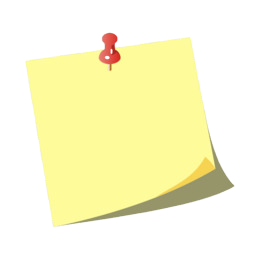
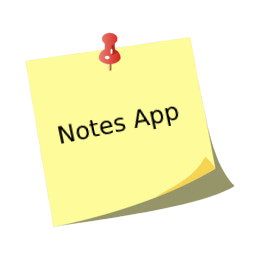
Css Finalizado

Changed region(s): [[0.2154, 0.4, 0.7077, 0.5538]]

diff --git a/src/assets/css/styles.css b/src/assets/css/styles.css
@@ -10,8 +10,8 @@ body {
   background-position: center;
   background-size: cover;
 }
-body.note{
-  background-color:#FEFB9A;
+body.note {
+  background-color: #fefb9a;
   background-image: none;
 }
 nav {
@@ -29,7 +29,7 @@ nav {
 }
 .menu {
   width: auto;
-  padding-top:calc(20% - 120px);
+  padding-top: calc(20% - 120px);
   position: fixed;
   transform: translateX(-200%);
   transition: transform 0.2s;
@@ -38,10 +38,10 @@ nav {
   z-index: 99;
   background-color: #d9d9d9;
 }
-nav ul li{
+nav ul li {
   list-style: none;
 }
-.closeIcon{
+.closeIcon {
   display: none;
 }
 .showMenu {
@@ -63,10 +63,10 @@ nav ul li{
 .material-icons {
   font-size: 40px !important;
 }
-.menuItem a{
+.menuItem a {
   text-decoration: none;
 }
-.menuItem{
+.menuItem {
   display: block;
   margin: 2rem 4rem;
   font-size: 1.8rem;
@@ -74,14 +74,15 @@ nav ul li{
 .menuItem:hover,
 .menuItem:focus {
   border: 1px solid black;
-  background-color: #FEFB9A;
+  background-color: #fefb9a;
   width: 100%;
   padding: 5%;
   text-decoration: none;
   box-shadow: 100px 40px 4px rgba(0, 0, 0, 0.25);
   color: white;
 }
-.menuItem a,.menuItem a:visited{
+.menuItem a,
+.menuItem a:visited {
   color: #000000;
 }
 
@@ -97,16 +98,6 @@ nav ul li{
   margin: auto;
   width: 50vmin;
   height: 50vmin;
-}
-.title {
-  margin: auto;
-  z-index: 90;
-  position: absolute;
-  font-size: 2.5vmax;
-  color: #000000;
-  transform: rotate(-13.08deg);
-  align-items: center;
-  justify-content: center;
 }
 .vertical-border-left {
   position: absolute;
@@ -145,12 +136,13 @@ nav ul li{
   background: #dec29c;
 }
 
-.signup-form,.login-form {
+.signup-form,
+.login-form {
   width: 300px;
   height: 200px;
   padding: 20px;
   padding-bottom: 10%;
-  background: #FEFB9A;
+  background: #fefb9a;
   box-shadow: 20px 40px 4px rgba(0, 0, 0, 0.25);
   position: absolute;
   left: 50%;
@@ -158,15 +150,50 @@ nav ul li{
   transform: translate(-50%, -50%);
   font-family: Arial, sans-serif;
 }
-
-.signup-form label,.login-form label {
+.text-form {
+  width: 300px;
+  height: 200px;
+  padding: 20px;
+  padding-bottom: 10%;
+  background: #fefb9a;
+  position: absolute;
+  display: flex;
+  font-family: Arial, sans-serif;
+  flex-direction: row;
+  justify-content: flex-end;
+  align-items: center;
+  align-content: space-between;
+  flex-wrap: wrap;
+  right: 10%;
+}
+.text-form label {
+  font-weight: bold;
+  display: block;
+  margin-bottom: 10px;
+  font-size: 2em;
+}
+.signup-form label,
+.login-form label {
   font-weight: bold;
   display: block;
   margin-bottom: 10px;
   font-size: 1.2em;
 }
+.text-form input[type="file"]::-webkit-file-upload-button {
+  background-color: #d9d9d9;
+  color: #000000;
+  margin-top: 2em;
+  margin-bottom: 2em;
+  padding: 1.5em;
+  border: none;
+  border-radius: 15px;
+}
 
-.login-form input[type="text"],.signup-form input[type="text"],input[type="email"],input[type="password"] {
+.text-form input[type="text"],
+.login-form input[type="text"],
+.signup-form input[type="text"],
+input[type="email"],
+input[type="password"] {
   width: 100%;
   padding: 10px;
   margin-bottom: 10px;
@@ -179,14 +206,20 @@ nav ul li{
 }
 
 textarea {
-  height: 60px;
+  height: 150px;
   resize: none;
+  background-color: #d9d9d9;
+  border: none;
+  border-radius: 15px;
+  width: 100%;
 }
 
-.login-form input[type="submit"], .signup-form input[type="submit"] {
+.login-form input[type="submit"],
+.signup-form input[type="submit"],
+.text-form input[type="submit"] {
   margin-top: 10px;
   padding: 10px 20px;
-  background-color: #FFB900;
+  background-color: #ffb900;
   color: white;
   border: none;
   border-radius: 5px;
@@ -194,9 +227,10 @@ textarea {
   font-size: 1.2em;
   transition: all 0.2s ease-in-out;
 }
-
-.login-form input[type="submit"]:hover , .signup-form input[type="submit"]:hover {
-  background-color: #FFCA28;
+.login-form input[type="submit"]:hover,
+.signup-form input[type="submit"]:hover,
+.text-form input[type="submit"]:hover {
+  background-color: #ffca28;
   transform: translateY(-2px);
   box-shadow: 0 4px 6px rgba(0, 0, 0, 0.1);
 }
@@ -206,14 +240,41 @@ textarea {
   top: -40px;
   text-align: center;
 }
-svg{
+svg {
   width: 50px;
   height: 53px;
 }
-.login,.signup{
+.login,
+.signup{
   text-align: center;
   padding-top: 5%;
   font-size: 5rem;
 }
+.note-title{
+  text-align: center;
+  padding-top: 2%;
+  font-size: 3rem;
+}
+.note-select{
+  position: absolute;
+  display: flex;
+  flex-direction: column;
+  margin-top: 20%;
+  left:15%;
+}
+.note-select label{
+  font-weight: bold;
+  display: block;
+  margin-bottom: 10px;
+  font-size:2em; 
+}
 
-
+#note-type{
+padding: 5%;
+font-size: 1.5rem;
+margin:auto;
+border: none;
+background-color: #d9d9d9 ;
+border-radius: 15px;
+outline: none;
+}

diff --git a/src/routes/Notes.jsx b/src/routes/Notes.jsx
@@ -1,30 +1,30 @@
-import NewNote from "../assets/js/NewNote";
-import { useState,useEffect } from "react";
-
+import NewNote from "../components/NewNote";
+import { useState, useEffect } from "react";
 
 export default function Notes() {
-    const [noteType, setNoteType] = useState("text");
+  const [noteType, setNoteType] = useState("text");
 
-    useEffect(()=>{
-        document.body.classList.add("note");
-        return () => {
-            document.body.classList.remove("note");
-        }
-    },[]);
-    
-    return (
-        <div>
-            <h1>Notes App</h1>
-            <label htmlFor="note-type">Select Your Note Type: </label>
-            <select
-                id="note-type"
-                value={noteType}
-                onChange={(e) => setNoteType(e.target.value)}
-            >
-                <option value="text">Text Note</option>
-                <option value="audio">Audio Note</option>
-            </select>
-            <NewNote noteType={noteType}/>
-        </div>
-    );
+  useEffect(() => {
+    document.body.classList.add("note");
+    return () => {
+      document.body.classList.remove("note");
+    };
+  }, []);
+
+  return (
+    <>
+      <div className="note-select">
+        <label htmlFor="note-type">Select Your Note Type: </label>
+        <select
+          id="note-type"
+          value={noteType}
+          onChange={(e) => setNoteType(e.target.value)}
+        >
+          <option value="text">Text Note</option>
+          <option value="audio">Audio Note</option>
+        </select>
+      </div>
+      <NewNote noteType={noteType} />
+    </>
+  );
 }

diff --git a/src/components/NewNote.jsx b/src/components/NewNote.jsx
@@ -1,0 +1,38 @@
+export default function NewNote({ noteType }) {
+  if (noteType === "text") {
+    return (
+      <>
+        <h1 className="note-title">New Text Note</h1>
+        <div className="text-form">
+          <form action="/textNote" method="post">
+            <label htmlFor="note-title">Title</label>
+            <br />
+            <input type="text" name="note-tilte" id="note-title" />
+            <br />
+            <label htmlFor="text-note">Note Cotent</label>
+            <br />
+            <textarea name="text-note" id="text-note"></textarea>
+            <br />
+            <input type="file" name="img" id="img" accept="image/*" />
+            <br />
+            <input type="submit" value="Send" />
+          </form>
+        </div>
+      </>
+    );
+  } else {
+    return (
+      <div>
+        <h1 className="note-title">New Audio Note</h1>
+        <div className="text-form">
+          <form action="/audioNote" method="post">
+            <label htmlFor="note-title">Title</label>
+            <input type="text" name="note-tilte" id="note-title" />
+            <p>audio</p>
+            <input type="submit" value="Send" />
+          </form>
+        </div>
+      </div>
+    );
+  }
+}

diff --git a/src/routes/SignUp.js b/src/routes/SignUp.js
@@ -2,6 +2,12 @@ export default function SignUp() {
     return (
       <div>
         <h1 className="signup">SignUp</h1>
+        <div className='border'>
+        <span className="vertical-border-right"></span>
+        <span className="vertical-border-left"></span>
+        <span className="horizontal-border-top"></span>
+        <span className="horizontal-border-bottom"></span>
+      </div>
         <form action="/signup" method="post" className="signup-form"> 
         <div id="chincheta">
           <svg>

diff --git a/src/routes/Login.js b/src/routes/Login.js
@@ -2,6 +2,12 @@ export default function Login() {
   return (
     <div>
       <h1 className="login">Login</h1>
+      <div className='border'>
+        <span className="vertical-border-right"></span>
+        <span className="vertical-border-left"></span>
+        <span className="horizontal-border-top"></span>
+        <span className="horizontal-border-bottom"></span>
+      </div>
       <form action="/login" method="post" className="login-form">
         <div id="chincheta">
           <svg>

diff --git a/src/routes/Root.js b/src/routes/Root.js
@@ -1,6 +1,6 @@
 import React, { useEffect,useState } from 'react';
 import { Link, Outlet } from "react-router-dom";
-import ToggleMenu from "../assets/js/toggleMenu";
+import ToggleMenu from "../components/toggleMenu";
 
 export default function Root() {
   const [menu, setMenu] = useState(null);

diff --git a/src/routes/HomePage.jsx b/src/routes/HomePage.jsx
@@ -10,7 +10,6 @@ export default function Homepage() {
         <span className="horizontal-border-bottom"></span>
       </div>
       <div className='postIt'>
-      <h1 className='title'>Notes App</h1>
       <img src={img} alt="PostIt" className='postItImg'/>
       </div>
 
